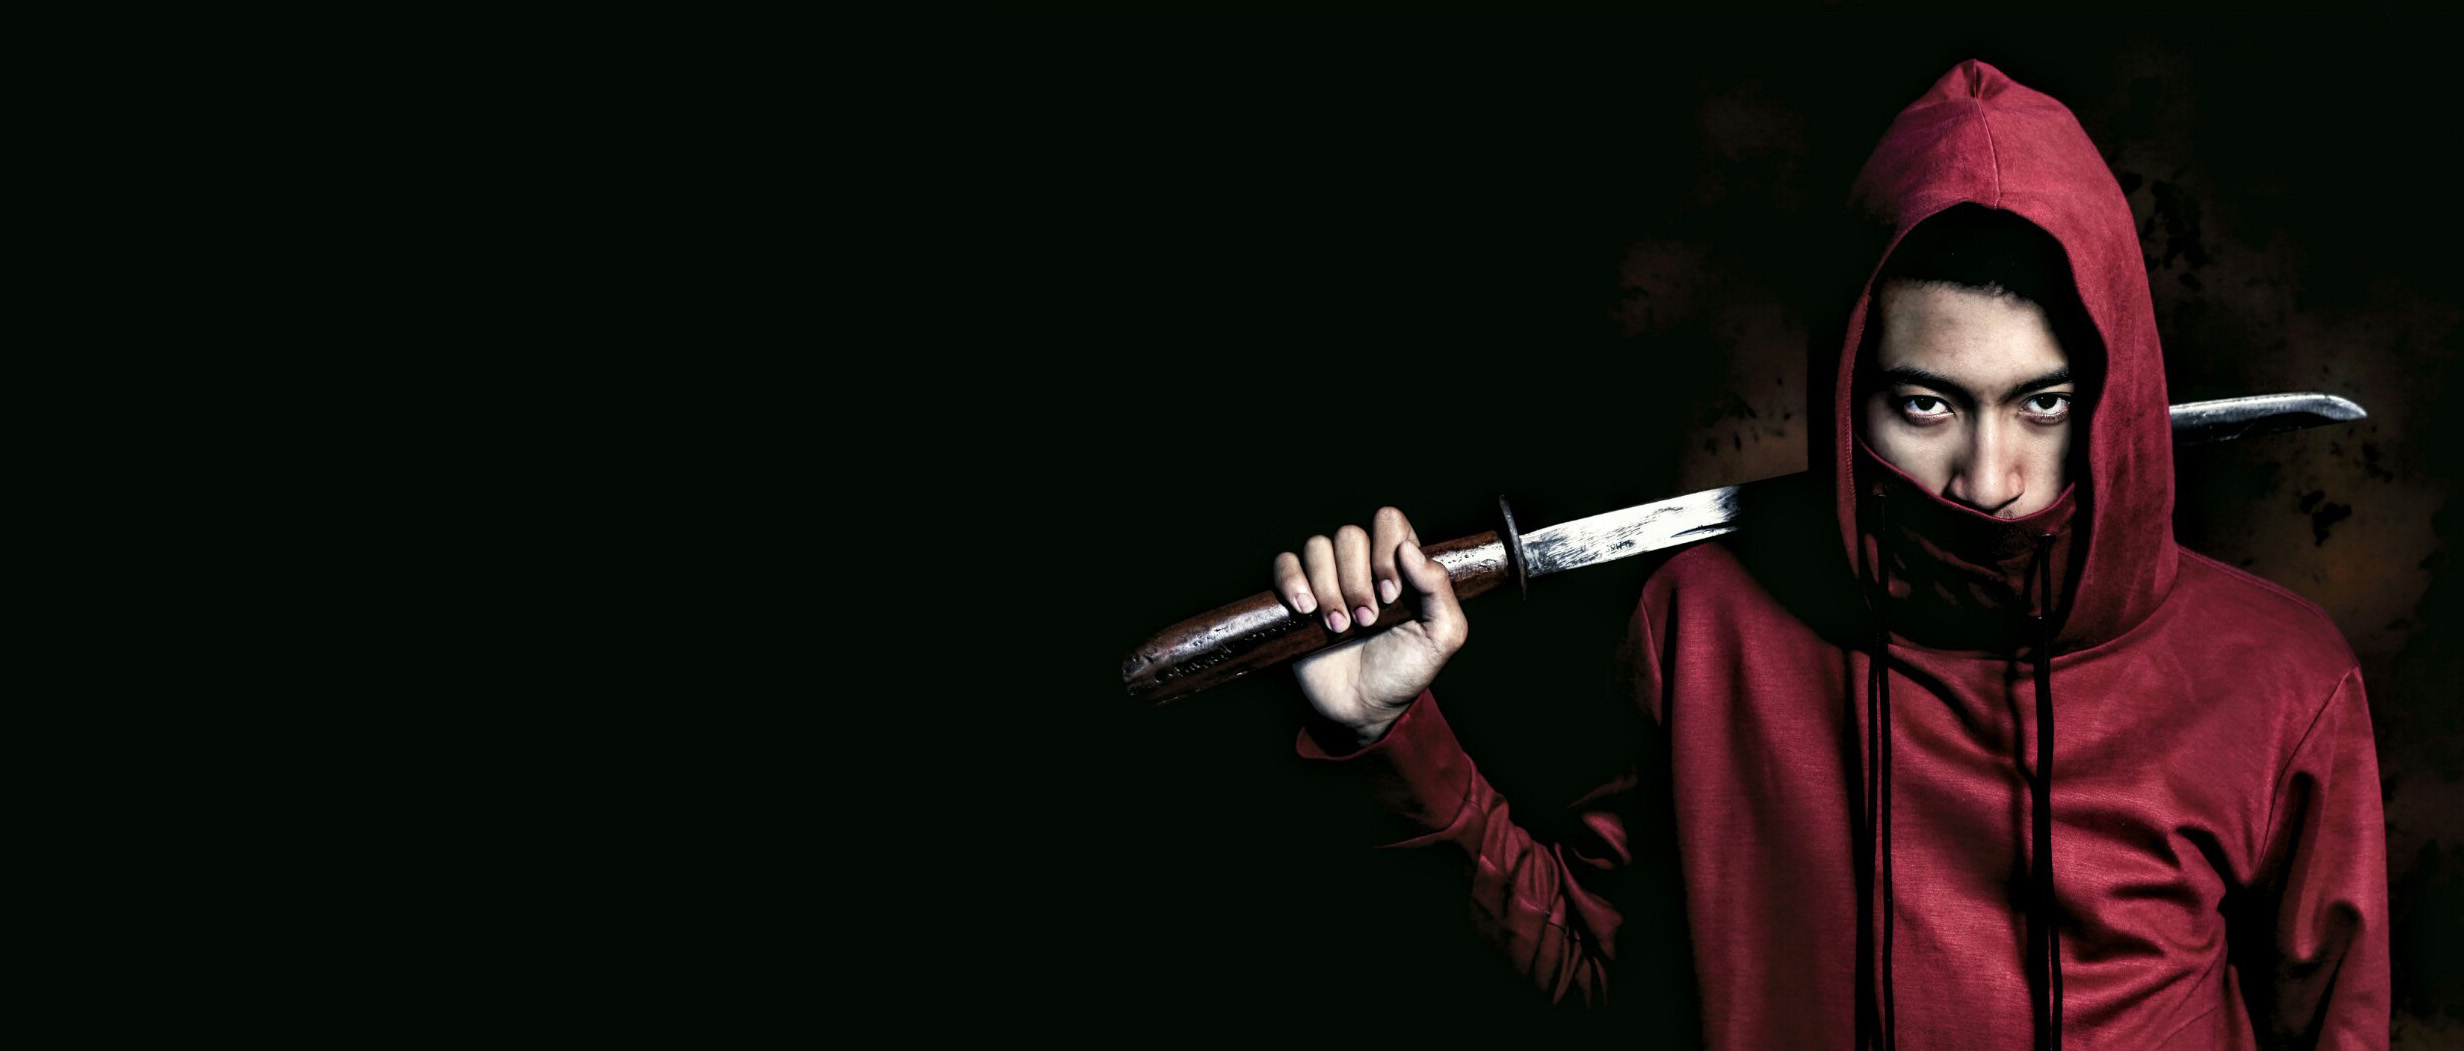
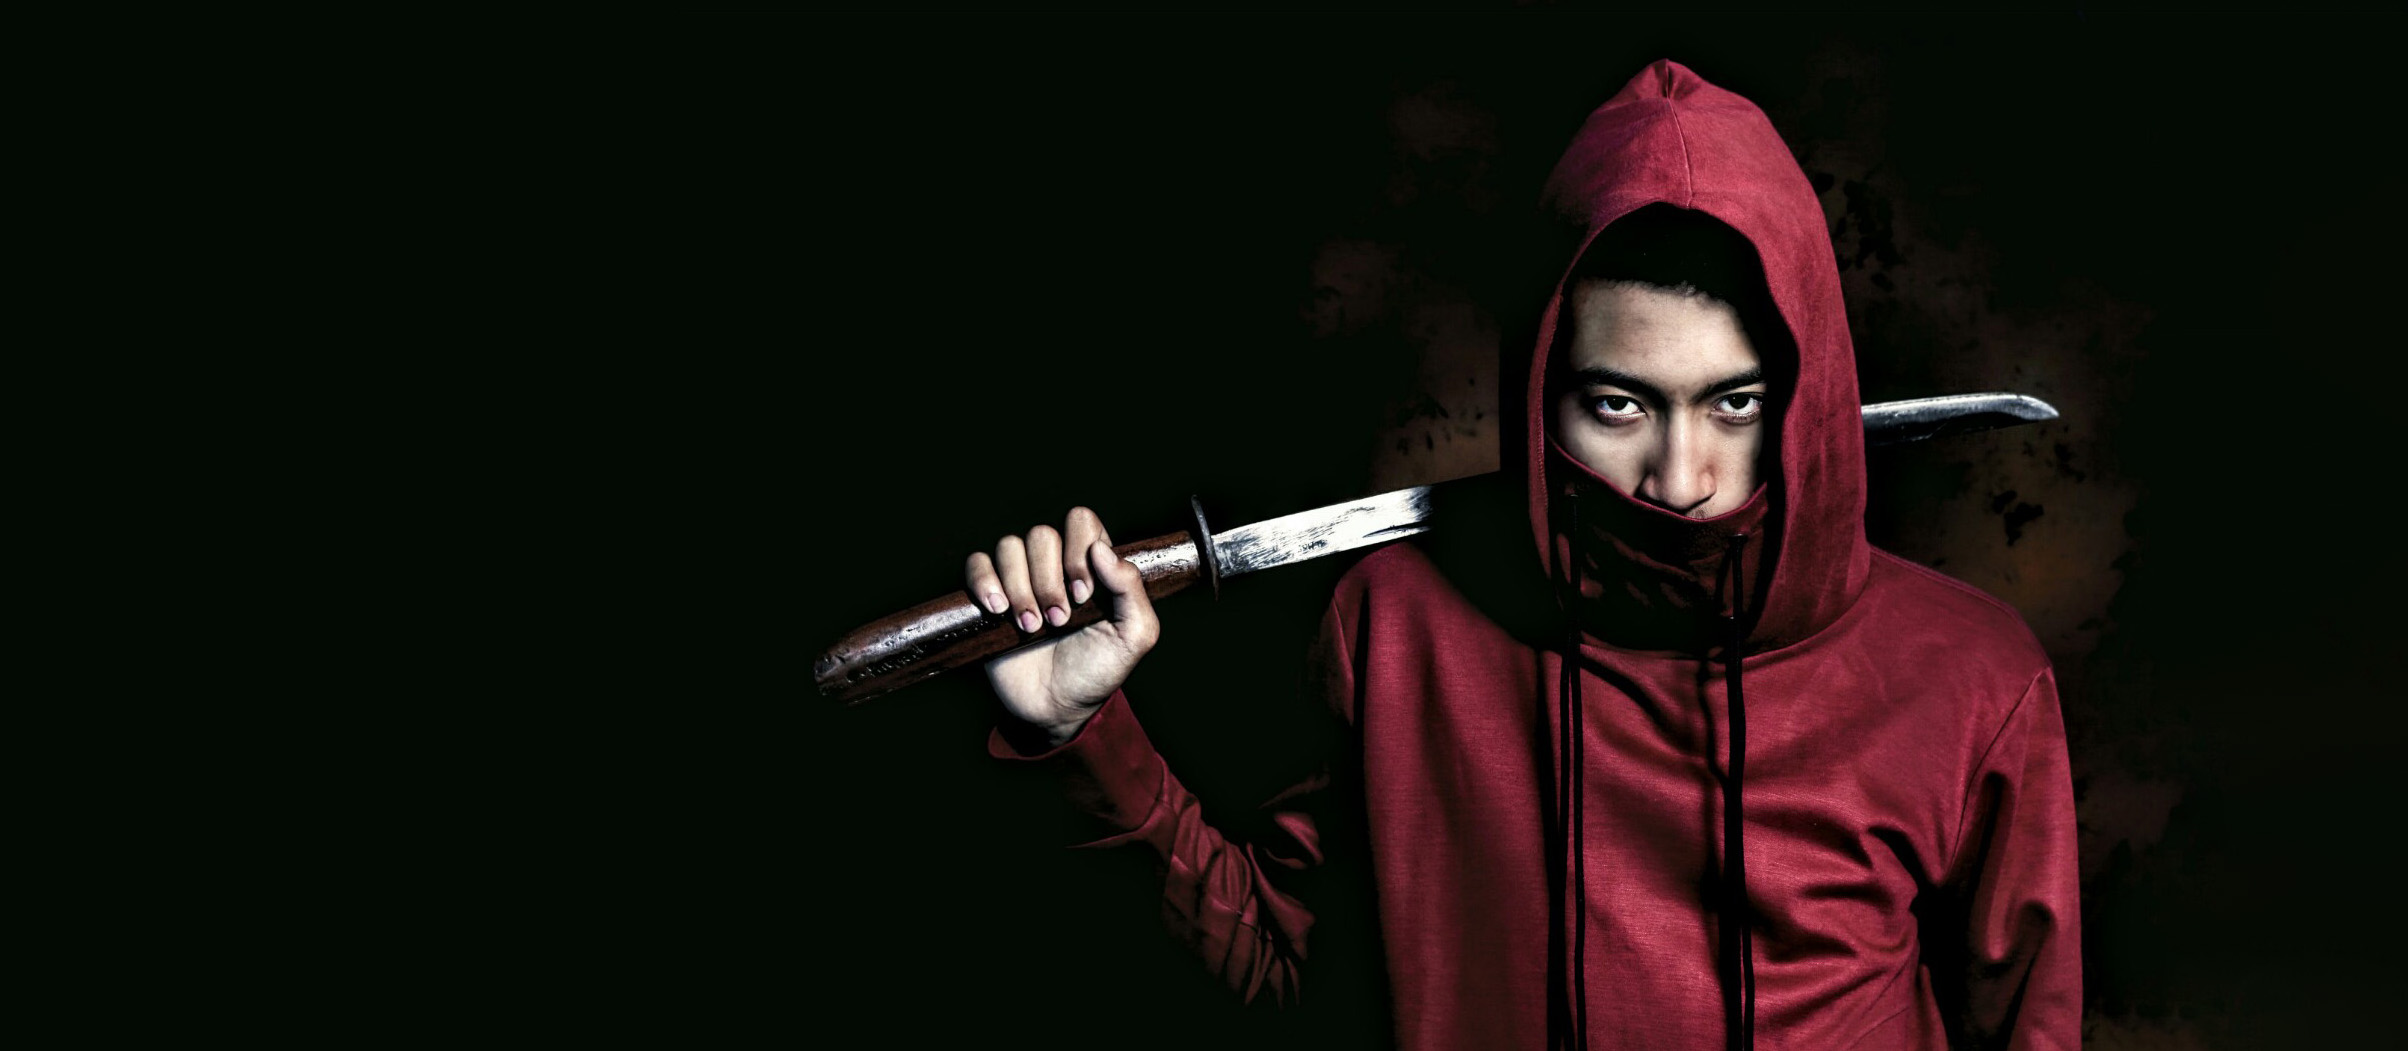
commit  kedua

Changed region(s): [[0.3426, 0.0609, 0.9967, 1.0]]

diff --git a/index.html b/index.html
@@ -46,12 +46,12 @@
     <div class="d-flex flex-column">
 
       <div class="profile">
-        <img src="assets/img/profil-1.jpg" alt="" class="img-fluid rounded-circle">
-        <h1 class="text-light"><a href="index.html">Moch. Vicky</a></h1>
+        <img src="assets/img/profil-2.png" alt="" class="img-fluid rounded-circle">
+        <h1 class="text-light"><a href="index.html">M_Vicky </a></h1>
         <div class="social-links mt-3 text-center">
           <a href="#" class="twitter"><i class="bx bxl-twitter"></i></a>
           <a href="#" class="facebook"><i class="bx bxl-facebook"></i></a>
-          <a href="#" class="instagram"><i class="bx bxl-instagram"></i></a>
+          <a href="https://www.instagram.com/vickyah_45?utm_source=ig_web_button_share_sheet&igsh=ZDNlZDc0MzIxNw==" class="instagram"><i class="bx bxl-instagram"></i></a>
           <a href="#" class="google-plus"><i class="bx bxl-skype"></i></a>
           <a href="#" class="linkedin"><i class="bx bxl-linkedin"></i></a>
         </div>
@@ -62,7 +62,7 @@
           <li><a href="#hero" class="nav-link scrollto active"><i class="bx bx-home"></i> <span>Home</span></a></li>
           <li><a href="#about" class="nav-link scrollto"><i class="bx bx-user"></i> <span>About</span></a></li>
           <li><a href="#resume" class="nav-link scrollto"><i class="bx bx-file-blank"></i> <span>Resume</span></a></li>
-          <li><a href="#portfolio" class="nav-link scrollto"><i class="bx bx-book-content"></i> <span>Portfolio</span></a></li>
+          <li><a href="#portfolio" class="nav-link scrollto"><i class="bx bx-book-content"></i> <span>Portofolio</span></a></li>
           <li><a href="#services" class="nav-link scrollto"><i class="bx bx-server"></i> <span>Services</span></a></li>
           <li><a href="#contact" class="nav-link scrollto"><i class="bx bx-envelope"></i> <span>Contact</span></a></li>
         </ul>
@@ -71,9 +71,9 @@
   </header><!-- End Header -->
 
   <!-- ======= Hero Section ======= -->
-  <section id="hero" class="d-flex flex-column justify-content-center align-items-center">
+  <section id="hero" class="d-flex flex-column justify-content-center" style="padding-left: 300px;">
     <div class="hero-container" data-aos="fade-in">
-      <h1>Moch. Vicky Al H.</h1>
+      <h1>Moch. Vicky A.</h1>
       <p>I'm <span class="typed" data-typed-items="Freelancer, Photographer, UI/UX Designer"></span></p>
     </div>
   </section><!-- End Hero -->
@@ -86,7 +86,10 @@
 
         <div class="section-title">
           <h2>About</h2>
-          <p>Magnam dolores commodi suscipit. Necessitatibus eius consequatur ex aliquid fuga eum quidem. Sit sint consectetur velit. Quisquam quos quisquam cupiditate. Et nemo qui impedit suscipit alias ea. Quia fugiat sit in iste officiis commodi quidem hic quas.</p>
+          <p>Saya merupakan pekerja lepas yang mengerjakan <b>UI/UX Design</b>, <b>Desain Grafis</b>, dan <b>Fotografi</b>. 
+            Saya menyukai pekerjaan yang bersangkutan dengan perangkat elektronik seperti komputer atau smartphone. 
+            Saya seorang yang bertanggung jawab, selalu berusaha untuk mengerjakan tugas sesuai dengan kebutuhan dengan syarat tidak melanggar aturan-aturan tertentu dan mengerjakan dengan rapi.  
+          </p>
         </div>
 
         <div class="row">
@@ -94,33 +97,33 @@
             <img src="assets/img/profil-1.jpg" class="img-fluid" alt="">
           </div>
           <div class="col-lg-8 pt-4 pt-lg-0 content" data-aos="fade-left">
-            <h3>UI/UX Designer &amp; Web Developer.</h3>
+            <h3>UI/UX Designer &amp; Photographer</h3>
             <p class="fst-italic">
-              Lorem ipsum dolor sit amet, consectetur adipiscing elit, sed do eiusmod tempor incididunt ut labore et dolore
-              magna aliqua.
+              #movic45 #movic45uiux #movic45design #movic45fotografi <br>
+              #fotografimalang #uiuxmalang 
             </p>
+            <p></p>
             <div class="row">
               <div class="col-lg-6">
                 <ul>
-                  <li><i class="bi bi-chevron-right"></i> <strong>Birthday:</strong> <span>1 May 1995</span></li>
-                  <li><i class="bi bi-chevron-right"></i> <strong>Website:</strong> <span>www.example.com</span></li>
-                  <li><i class="bi bi-chevron-right"></i> <strong>Phone:</strong> <span>+123 456 7890</span></li>
-                  <li><i class="bi bi-chevron-right"></i> <strong>City:</strong> <span>New York, USA</span></li>
+                  <li><i class="bi bi-chevron-right"></i> <strong>Birthday:</strong> <span>1998</span></li>
+                  <li><i class="bi bi-chevron-right"></i> <strong>Website:</strong> <span>mvickya45.github.io </span></li>
+                  <li><i class="bi bi-chevron-right"></i> <strong>Phone:</strong> <span> - </span></li>
+                  <li><i class="bi bi-chevron-right"></i> <strong>City:</strong> <span>Malang</span></li>
                 </ul>
               </div>
               <div class="col-lg-6">
                 <ul>
-                  <li><i class="bi bi-chevron-right"></i> <strong>Age:</strong> <span>30</span></li>
-                  <li><i class="bi bi-chevron-right"></i> <strong>Degree:</strong> <span>Master</span></li>
-                  <li><i class="bi bi-chevron-right"></i> <strong>PhEmailone:</strong> <span>email@example.com</span></li>
+                  <li><i class="bi bi-chevron-right"></i> <strong>Age:</strong> <span>25</span></li>
+                  <li><i class="bi bi-chevron-right"></i> <strong>Degree:</strong> <span>Bachelor Degree</span></li>
+                  <li><i class="bi bi-chevron-right"></i> <strong>Email:</strong> <span>mochvickyah@gmail.com</span></li>
                   <li><i class="bi bi-chevron-right"></i> <strong>Freelance:</strong> <span>Available</span></li>
                 </ul>
               </div>
             </div>
-            <p>
-              Officiis eligendi itaque labore et dolorum mollitia officiis optio vero. Quisquam sunt adipisci omnis et ut. Nulla accusantium dolor incidunt officia tempore. Et eius omnis.
-              Cupiditate ut dicta maxime officiis quidem quia. Sed et consectetur qui quia repellendus itaque neque. Aliquid amet quidem ut quaerat cupiditate. Ab et eum qui repellendus omnis culpa magni laudantium dolores.
-            </p>
+            <!--<p>
+              #
+            </p>-->
           </div>
         </div>
 
@@ -141,7 +144,7 @@
           <div class="col-lg-3 col-md-6 d-md-flex align-items-md-stretch" data-aos="fade-up">
             <div class="count-box">
               <i class="bi bi-emoji-smile"></i>
-              <span data-purecounter-start="0" data-purecounter-end="232" data-purecounter-duration="1" class="purecounter"></span>
+              <span data-purecounter-start="0" data-purecounter-end="5" data-purecounter-duration="1" class="purecounter"></span>
               <p><strong>Happy Clients</strong> consequuntur quae</p>
             </div>
           </div>
@@ -181,7 +184,7 @@
 
         <div class="section-title">
           <h2>Skills</h2>
-          <p>Magnam dolores commodi suscipit. Necessitatibus eius consequatur ex aliquid fuga eum quidem. Sit sint consectetur velit. Quisquam quos quisquam cupiditate. Et nemo qui impedit suscipit alias ea. Quia fugiat sit in iste officiis commodi quidem hic quas.</p>
+          <p>Beberapa hal yang cukup dikuasai mulai dari basic hingga proffesional</p>
         </div>
 
         <div class="row skills-content">
@@ -190,9 +193,9 @@
 
             <div class="progress">
               <span class="skill">HTML <i class="val">100%</i></span>
-              <div class="progress-bar-wrap">
+              <!--<div class="progress-bar-wrap">
                 <div class="progress-bar" role="progressbar" aria-valuenow="100" aria-valuemin="0" aria-valuemax="100"></div>
-              </div>
+              </div>--->
             </div>
 
             <div class="progress">
